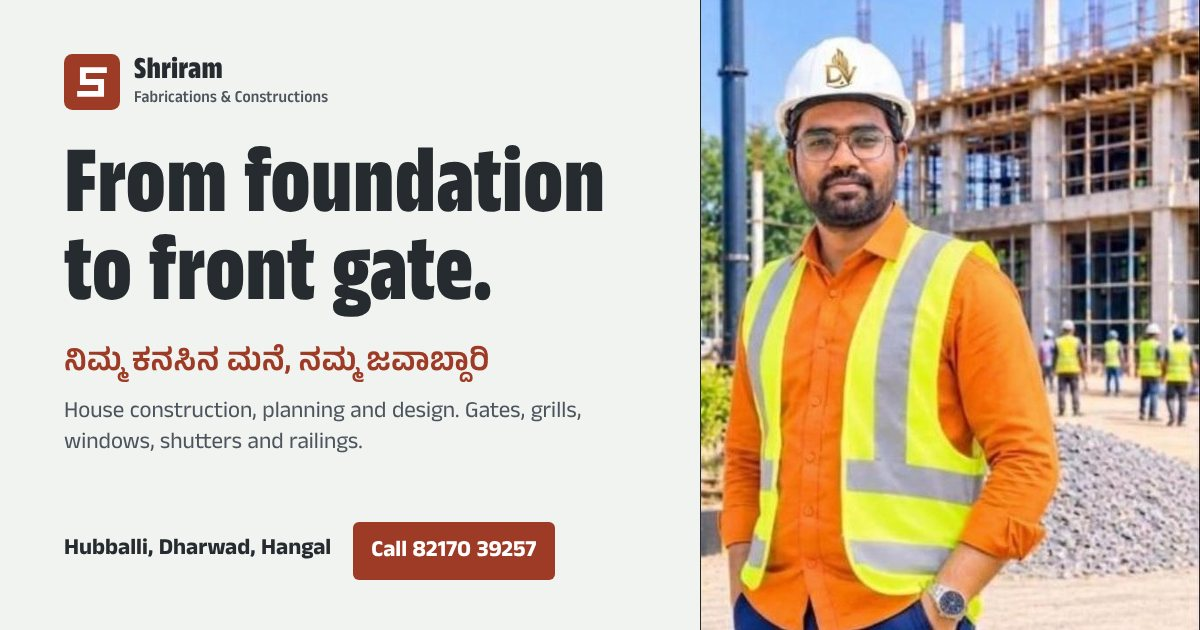
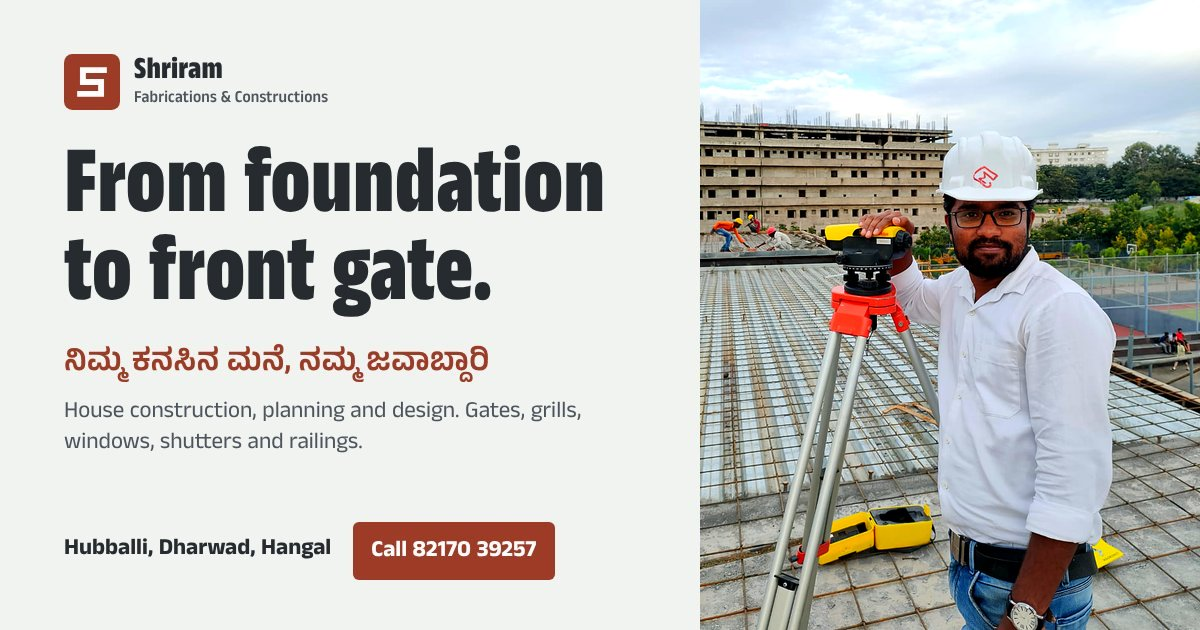
Use Maruti's site photo in About and the link preview
Replaces the on-site photo that showed another brand's helmet logo.

Claude-Session: https://claude.ai/code/session_01YFWFPmAGjUoTuJfufkCygY

diff --git a/index.html b/index.html
@@ -23,7 +23,7 @@
   <meta property="og:title" content="Shriram Fabrications &amp; Constructions">
   <meta property="og:description" content="From foundation to front gate: new home construction, planning and design, and fabrication and welding of gates, grills, shutters and railings in Hubli, Dharwad and Hangal.">
   <meta property="og:url" content="https://shrikarvk.github.io/marutisriramfabcons/">
-  <meta property="og:image" content="https://shrikarvk.github.io/marutisriramfabcons/assets/img/share.jpg">
+  <meta property="og:image" content="https://shrikarvk.github.io/marutisriramfabcons/assets/img/share.jpg?v=2">
   <meta property="og:image:width" content="1200">
   <meta property="og:image:height" content="630">
   <meta property="og:image:alt" content="Shriram Fabrications and Constructions, serving Hubballi, Dharwad and Hangal">
@@ -426,8 +426,8 @@
       <div class="wrap about-grid">
         <figure class="photo-frame">
           <picture>
-            <source type="image/webp" srcset="assets/img/onsite-480.webp 480w, assets/img/onsite-800.webp 800w" sizes="(min-width: 960px) 440px, calc(100vw - 2rem)">
-            <img src="assets/img/onsite-800.jpg" srcset="assets/img/onsite-480.jpg 480w, assets/img/onsite-800.jpg 800w" sizes="(min-width: 960px) 440px, calc(100vw - 2rem)" width="800" height="810" loading="lazy" decoding="async" alt="Wearing a hard hat and safety vest at a building under construction">
+            <source type="image/webp" srcset="assets/img/about-maruti-480.webp 480w, assets/img/about-maruti-800.webp 800w" sizes="(min-width: 960px) 440px, calc(100vw - 2rem)">
+            <img src="assets/img/about-maruti-800.jpg" srcset="assets/img/about-maruti-480.jpg 480w, assets/img/about-maruti-800.jpg 800w" sizes="(min-width: 960px) 440px, calc(100vw - 2rem)" width="800" height="1000" loading="lazy" decoding="async" alt="Maruti Doddamani, civil engineer, in a hard hat beside an auto level on a slab under construction">
           </picture>
         </figure>
         <div class="about-copy">

diff --git a/README.md b/README.md
@@ -9,14 +9,14 @@ One-page static website for Shriram Fabrications & Constructions (Hubballi, Dhar
 - `index.html`: all page content
 - `style.css`: styles. Colours are at the top: graphite is construction, red oxide is fabrication.
 - `script.js`: mobile menu, WhatsApp chooser and the enquiry form that opens WhatsApp
-- `assets/img/`: the on-site photo (`onsite-480` and `onsite-800`, in `.jpg` and `.webp`) and `share.jpg`, the preview image shown when the link is shared on WhatsApp or Facebook
+- `assets/img/`: Maruti's photo for the About section (`about-maruti-480` and `about-maruti-800`, in `.jpg` and `.webp`) and `share.jpg`, the preview image shown when the link is shared on WhatsApp or Facebook
 - `assets/fonts/`: Anek by Ek Type (SIL Open Font License, see `OFL.txt`), cut down to the characters this site uses
 
 ## Common edits
 
 - **Phone numbers:** search `index.html` for `8217039257` (Maruti) and `6362172966` (Ram). Update the `tel:` links, the `wa.me/` links and the visible numbers.
 - **Add a review:** in `index.html`, copy a `<figure class="review">` block inside `<div class="reviews">`. Use real client feedback only.
-- **Change the photo:** replace the files in `assets/img/onsite-*` and keep the same names.
+- **Change the photo:** replace the files in `assets/img/about-maruti-*` and keep the same names (4:5 portrait, 480 and 800px wide).
 - **Kannada tagline:** the Kannada font file holds only the letters of the current tagline. If you change the wording, either regenerate that font file or delete the `font-family` line under `.kn` in `style.css` so phones use their built-in Kannada font.
 
 ### Add a photo to "Our work"
